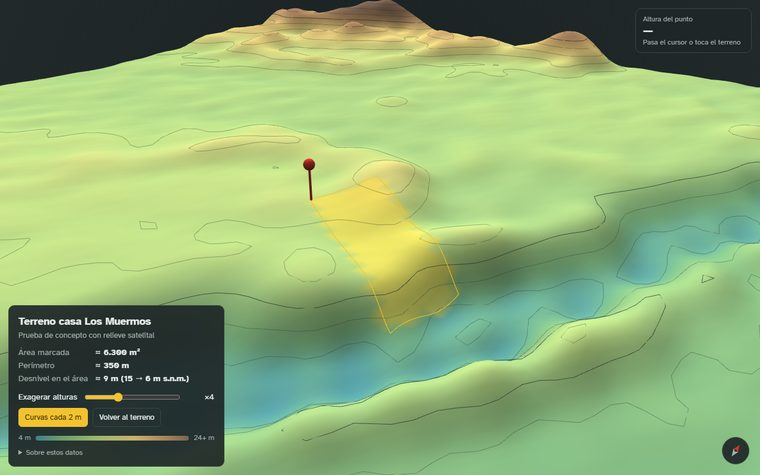
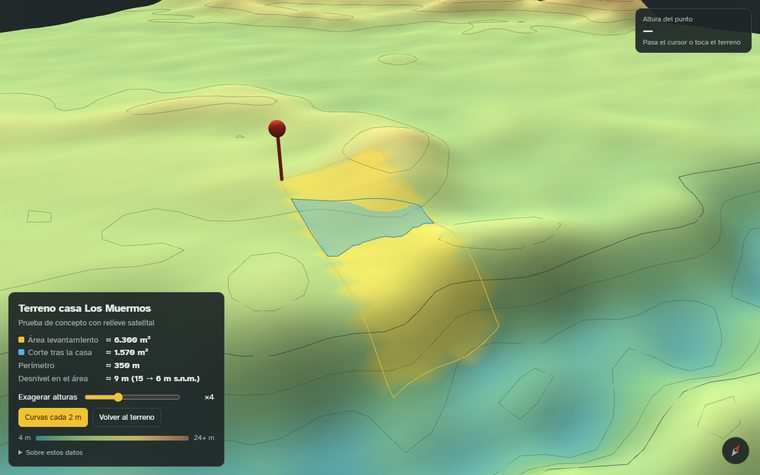
actualiza casalcs: nueva data del terreno + corte despejado tras la casa
Nueva versión del visor (artefacto de David): segunda área "Corte tras
la casa" (~1.570 m²) en azul, datos de relieve Copernicus GLO-30
actualizados y atribución ESA. Thumbnail regenerado.

diff --git a/casalcs/index.html b/casalcs/index.html
@@ -37,6 +37,7 @@ h1{font-size:18px;margin:0 0 2px;font-weight:700;letter-spacing:-.01em}
 .sub{color:var(--muted);margin:0 0 10px;font-size:13px}
 .stats{display:grid;grid-template-columns:auto 1fr;gap:2px 12px;margin:0 0 12px}
 .stats dt{color:var(--muted)} .stats dd{margin:0;font-weight:700}
+.sw{display:inline-block;width:10px;height:10px;border-radius:2px;margin-right:6px;vertical-align:baseline}
 label.row{display:flex;align-items:center;gap:10px;margin:6px 0}
 input[type=range]{flex:1;accent-color:var(--accent)}
 .val{min-width:3.2em;text-align:right;font-variant-numeric:tabular-nums}
@@ -73,7 +74,8 @@ details summary{cursor:pointer;color:var(--muted);font-size:12px;margin-top:8px}
   <h1>Terreno casa Los Muermos</h1>
   <p class="sub">Prueba de concepto con relieve satelital</p>
   <dl class="stats">
-    <dt>Área marcada</dt><dd>≈ 6.300 m²</dd>
+    <dt><span class="sw" style="background:#f2c230"></span>Área levantamiento</dt><dd>≈ 6.300 m²</dd>
+    <dt><span class="sw" style="background:#4fb6e3"></span>Corte tras la casa</dt><dd>≈ 1.570 m²</dd>
     <dt>Perímetro</dt><dd>≈ 350 m</dd>
     <dt>Desnivel en el área</dt><dd id="dn">—</dd>
   </dl>
@@ -174,6 +176,25 @@ const polyPts = densify(T.poly);
 const polyGeo = new THREE.BufferGeometry(); polyGeo.setAttribute('position', new THREE.BufferAttribute(new Float32Array(polyPts.length*3),3));
 const polyLine = new THREE.Line(polyGeo, new THREE.LineBasicMaterial({color:0xf2c230}));
 scene.add(polyLine);
+
+// Corte despejado detrás de la casa (KML de David, 28-10-2026)
+const CORTE = [[2.82,28.22],[-48.11,-1.4],[-6.01,-26.15],[-3.36,-23.47],[-3.9,-14.82],[-4.03,-12.78],[-2.03,-10.59],[-2.01,-8.7],[0.01,-5.23],[1.99,-1.96],[3.87,-0.31],[7.1,0.46],[9.74,2.84],[10.27,6.66],[9.83,10.98],[11.45,12.85],[11.74,16.8],[15.21,19.43]];
+const corteTri = THREE.ShapeUtils.triangulateShape(CORTE.map(p=>new THREE.Vector2(p[0],p[1])), []);
+const corteGeo = new THREE.BufferGeometry();
+corteGeo.setAttribute('position', new THREE.BufferAttribute(new Float32Array(CORTE.length*3),3));
+corteGeo.setIndex(corteTri.flat());
+const corteFill = new THREE.Mesh(corteGeo, new THREE.MeshBasicMaterial({color:0x4fb6e3, transparent:true, opacity:0.45, side:THREE.DoubleSide, depthWrite:false}));
+scene.add(corteFill);
+const cortePts = densify(CORTE);
+const corteLineGeo = new THREE.BufferGeometry(); corteLineGeo.setAttribute('position', new THREE.BufferAttribute(new Float32Array(cortePts.length*3),3));
+const corteLine = new THREE.Line(corteLineGeo, new THREE.LineBasicMaterial({color:0x1d7fb0}));
+scene.add(corteLine);
+function updateCorte(){
+  const a=corteGeo.attributes.position.array; CORTE.forEach((p,i)=>{ a[i*3]=p[0]; a[i*3+1]=hAt(p[0],p[1])*EX+1.2; a[i*3+2]=-p[1]; });
+  corteGeo.attributes.position.needsUpdate=true; corteGeo.computeBoundingSphere();
+  const b=corteLineGeo.attributes.position.array; cortePts.forEach((p,i)=>{ b[i*3]=p[0]; b[i*3+1]=hAt(p[0],p[1])*EX+1.4; b[i*3+2]=-p[1]; });
+  corteLineGeo.attributes.position.needsUpdate=true; corteLineGeo.computeBoundingSphere();
+}
 const pin = new THREE.Group();
 const stick = new THREE.Mesh(new THREE.CylinderGeometry(0.8,0.8,24,8), new THREE.MeshLambertMaterial({color:0xc4392b}));
 stick.position.y=12; pin.add(stick);
@@ -188,12 +209,14 @@ function applyExaggeration(){
   const a=polyGeo.attributes.position.array; polyPts.forEach((p,i)=>{ a[i*3]=p[0]; a[i*3+1]=hAt(p[0],p[1])*EX+0.8; a[i*3+2]=-p[1]; });
   polyGeo.attributes.position.needsUpdate=true; polyGeo.computeBoundingSphere();
   const [mx,my]=T.marker; pin.position.set(mx, hAt(mx,my)*EX, -my);
+  updateCorte();
 }
 applyExaggeration();
 
 // Cámara
 const cx = T.poly.reduce((s,p)=>s+p[0],0)/T.poly.length, cy = T.poly.reduce((s,p)=>s+p[1],0)/T.poly.length;
-function resetView(){ const h=hAt(cx,cy)*EX; controls.target.set(cx,h,-cy); camera.position.set(cx+180, h+170, -cy+260); controls.update(); }
+const kx = CORTE.reduce((s,p)=>s+p[0],0)/CORTE.length, ky = CORTE.reduce((s,p)=>s+p[1],0)/CORTE.length;
+function resetView(){ const h=hAt(kx,ky)*EX; controls.target.set(kx,h,-ky); camera.position.set(kx+120, h+120, -ky+170); controls.update(); }
 resetView();
 
 // UI
@@ -213,7 +236,7 @@ function probe(ev){
   const x=hit.point.x, y=-hit.point.z, h=hAt(x,y), [mx,my]=T.marker;
   const dist=Math.hypot(x-mx,y-my), dh=h-hAt(mx,my);
   ph.textContent=h.toFixed(1).replace('.',',')+' m';
-  pd.textContent='A '+Math.round(dist)+' m del marcador, '+(dh>=0?'+':'−')+Math.abs(dh).toFixed(1).replace('.',',')+' m'+(inPoly(x,y,T.poly)?' · dentro del área':'');
+  pd.textContent='A '+Math.round(dist)+' m del marcador, '+(dh>=0?'+':'−')+Math.abs(dh).toFixed(1).replace('.',',')+' m'+(inPoly(x,y,CORTE)?' · dentro del corte':inPoly(x,y,T.poly)?' · dentro del área':'');
 }
 renderer.domElement.addEventListener('pointermove', probe);
 renderer.domElement.addEventListener('pointerdown', probe);
